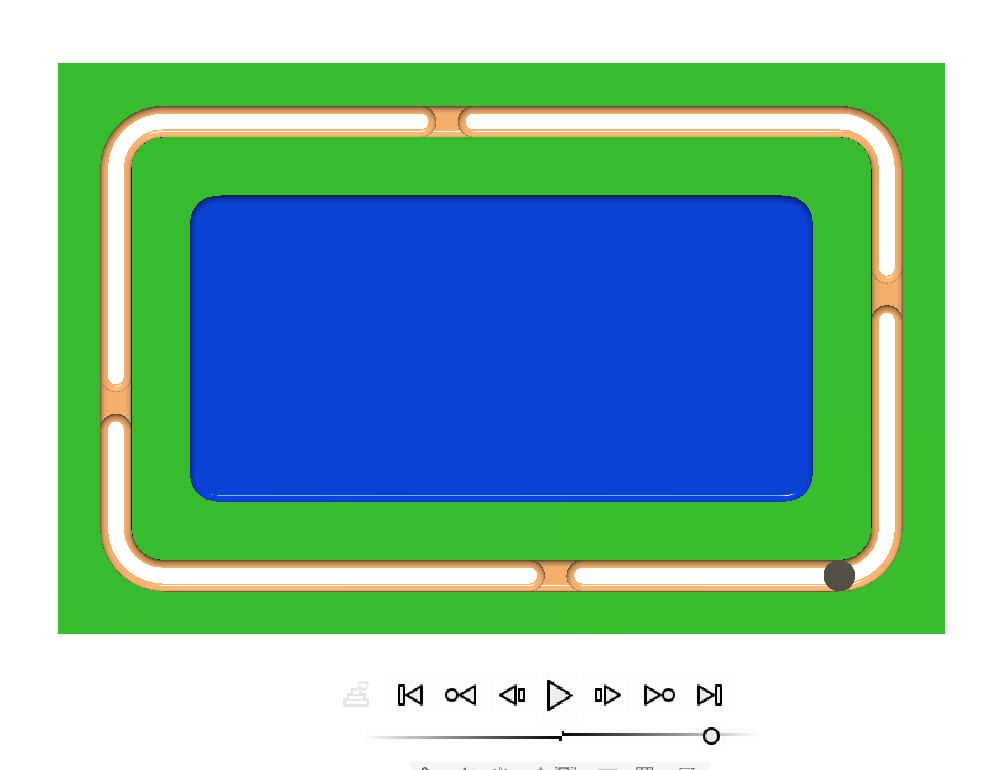
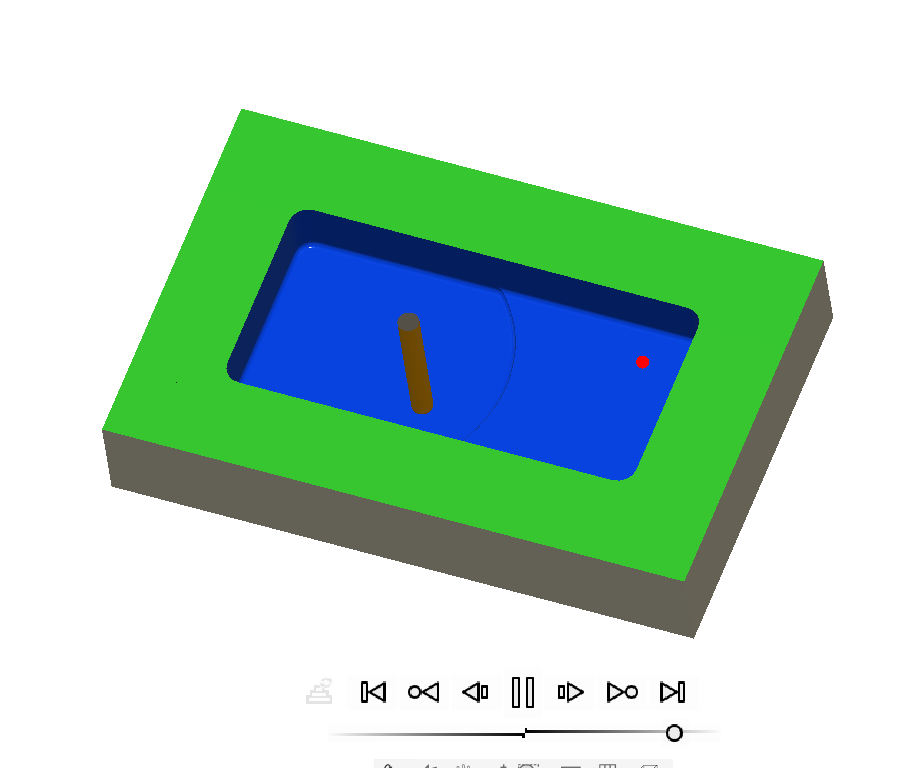
docs(journale):fin du 08 septembre 2026

diff --git a/docs/02-journal/2026-09-08.md b/docs/02-journal/2026-09-08.md
@@ -5,43 +5,43 @@
 ---
 ### Activités
 ---
-Lors de ce atelier, nous avons avancé sur le projet en definissant les composants finaux comme :
-- Le capteur de force ou module de charge de 2kg
-- Le module (PCB) HX711 qui va permettre d'amplifier le signe du capteur de force et le transmettre au XIOA ESP32S3
-- Le XIAO ESP32S3 qui represente le cerveau ou microcontrolleur
-- La batterie litium et le module de charge TP4056 pour l'alimentation et la charge de la batterie.
-- L'ecran OLED de OLED 0.96" pour l'affichage
-Apres avoir defini les composants, nous avons procedé au cablage pour faire la simulation et injecter le code ecrit dans C++ car le site de simulation ne prend pas du micro python
+Lors de ce atelier, nous avons avancé sur le projet en définissant les composants finaux comme suit :
+- Le capteur de force ou module de charge de 2 kg ;
+- Le module (PCB) HX711 qui va permettre d'amplifier le signal du capteur de force et le transmettre au XIAO ESP32S3 ;
+- Le XIAO ESP32S3 qui représente le cerveau ou microcontrôleur ;
+- La batterie lithium et le module de charge TP4056 pour l'alimentation et la charge de la batterie ;
+- L'écran OLED 0,96" pour l'affichage.
 
-![Schema de cablage](../medias/Cablage%20sur%20wokwi.png)
+Après avoir défini les composants, nous avons procédé au câblage pour faire la simulation et injecter le code écrit en C++ car le site de simulation ne prend pas le micro-python.
 
-Conclusion la simulation fonction. Il ne reste plus qu'a faire l'essai sur composant physique afin de regler le calibrage et transformer le code en micro python.
+![Schéma de câblage](../medias/Cablage%20sur%20wokwi.png)
 
+Conclusion : la simulation fonctionne. Il ne reste plus qu'à faire l'essai sur composant physique afin de régler le calibrage et transformer le code en micro-python.
 
 ## **Atelier : FAO et usinage CNC**
-De la conception à la piece usinée avec Fusion 360
+De la conception à la pièce usinée avec Fusion 360.
 
 ---
 ### Activités
 ---
-Lors de cet atelier, nous avons apris avec monsieur SITOU comment faire conception, la programmation et faire la fabrication avec les machines commme la CNC( fraiseuse, tour,decoupe laser...)
+Lors de cet atelier, nous avons appris avec monsieur SITOU comment faire la conception, la programmation et la fabrication avec les machines comme la CNC (fraiseuse, tour, découpe laser...).
 
-D'une piece faite dans l'atelier de conception, nous sommes passé à l'atelier fabrication afin de regler les parametres en choisissant les vitesses de coupe et vitesse d'avance ainsi que les passes à respecter pour obtenir une piece avec une bonne rigorisité.
+D'une pièce faite dans l'atelier de conception, nous sommes passés à l'atelier de fabrication afin de régler les paramètres en choisissant les vitesses de coupe et la vitesse d'avance ainsi que les passes à respecter pour obtenir une pièce avec une bonne rigidité.
 
 ![CNC01](../medias/CNC01.png)
 
-![CNC01](../medias/CNC02.png)
+![CNC02](../medias/CN02.png)
 
-![CNC01](../medias/CNC03.png)
+![CNC03](../medias/CNC03.png)
 
 #### Les apprentissages du jour :
 
-- Comment faire la FAO sur Fusion 360
+- Comment faire la FAO sur Fusion 360.
 
 ### Logiciel utilisé :
-- Fusion 360
-- Wokwi pour la simulation
-- Vscode
+- Fusion 360 ;
+- Wokwi pour la simulation ;
+- VS Code.
 
 ## **À faire demain**
 ---
